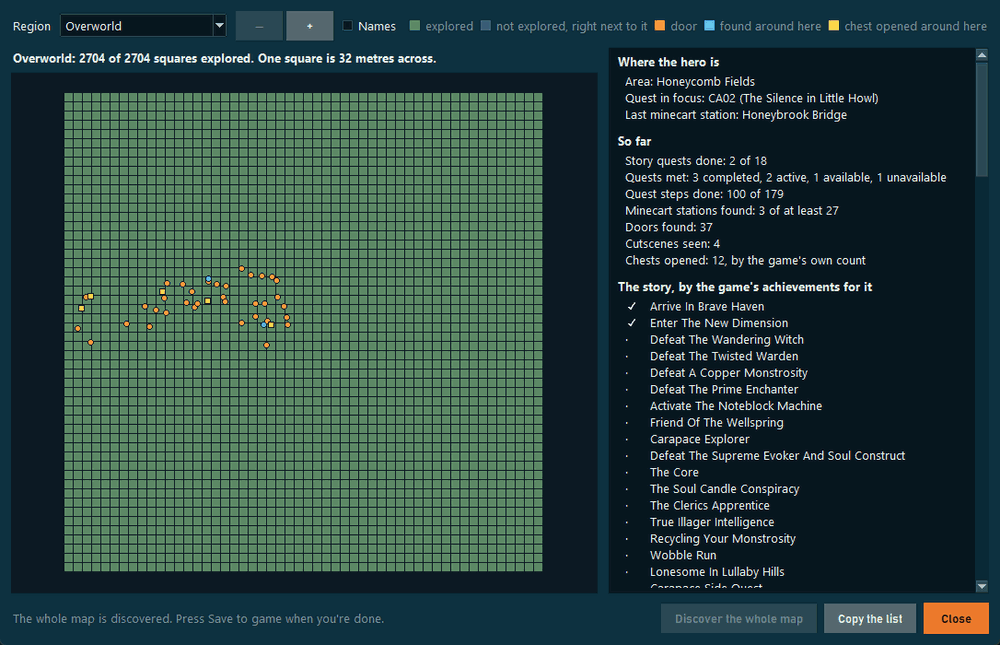
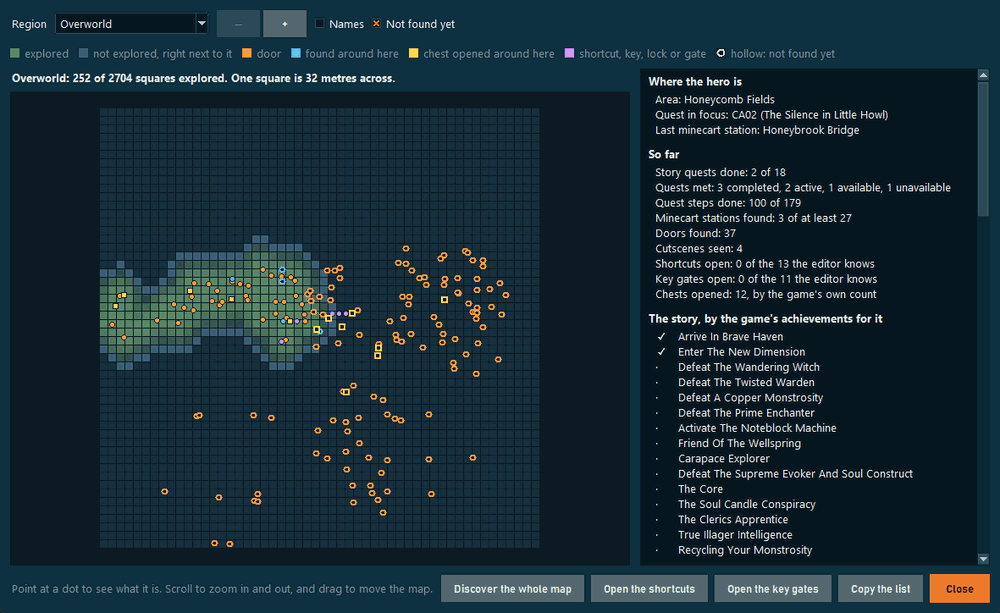
1.16.1's notes, changelog, README and pictures: the shortcuts, the key gates and the map that shows more
The notes list what goes out in 1.16.1 with two pictures (Story progress with
Finish all, and the World map with its three buttons and its hollow dots).
The changelog has the detail, the README's lines and its World map picture are
brought up to date, and the editor's own help says what the World map's three
buttons do.

diff --git a/dungeons2_editor/gui.py b/dungeons2_editor/gui.py
@@ -78,10 +78,12 @@ _SAFE_TEXT = (
     "part of one that can be sent on, and sends it if you choose to."
     "\n• World map… (in the same two places) draws the ground the hero on screen has explored, from its save, with every "
     "door it has found, and lists how far it has got: the story, quests, minecart stations, what it may have missed. "
-    "Your recordings add where stations, cutscenes and chests turned up. It can't show what the hero hasn't found: the "
-    "game writes a chest or a secret to a save only once you've been to it. Nothing is changed by looking. Discover the whole "
-    "map, in its window, lifts the fog from every map, and adds the maps of places the hero hasn't been to yet as other "
-    "players' saves hold them."
+    "Your recordings add where stations, cutscenes, chests, rocks and key gates turned up. Hollow dots are what the editor "
+    "knows from other players' saves and this hero hasn't found; untick Not found yet to hide them. A chest or a secret that "
+    "no recording has seen isn't on it. Nothing is changed by looking. Three buttons in its window change the hero: Discover "
+    "the whole map lifts the fog from every map, and adds the maps of places the hero hasn't been to yet as other players' "
+    "saves hold them; Open the shortcuts moves the rocks that block a way round; Open the key gates opens the gates a key "
+    "opens, with their locks and keys."
     "\n• Story progress… (in the same two places) lists the quests of the hero on screen with every step, and changes "
     "how far the hero has got: finish a quest, start one over, add one the hero hasn't met, pick the quest the game "
     "tracks, and say which minecart station the hero was last at. It writes a quest the way a save holds one, and nothing "

diff --git a/CHANGELOG.md b/CHANGELOG.md
@@ -34,22 +34,60 @@ The short notes for the newest versions are on the
   reaches the game only with **Save to game**. It finds nothing for you: doors, minecart stations and chests
   stay as they are. The World map window now shows the hero with the changes you've made, not the save as it
   was loaded, so what the button did is there to see before you save.
+- **Open the shortcuts, and open the key gates.** Two more buttons in the World map window. A save keeps a list of
+  the things in the world that stay as the hero left them, each with the state it was in and the state it's in:
+  a rock that moved out of the way once the hero came round to its far side, a bridge, a gate that a key opens,
+  the key's lock, and the key. The overworld's are named the same in every player's save (33 of the 45 in
+  players' lists are in more than one list), so the editor can write them. **Open the shortcuts** marks the
+  rocks and the bridge it knows as moved, 13 of them, and **Open the key gates** the 11 gates, each the way a
+  save holds an open one. Both ask first, and the window says how many of each are open. What's inside a dungeon
+  is left alone: a dungeon's things are named after where that dungeon was put.
+- **A gate's lock and key go with it.** Tried in the game with the gates alone, a gate stood open with its
+  keyhole and its key still there. So the lock is marked as having its key, and the key as taken, the way a save
+  holds them once a gate has been opened by playing, for each lock and key the editor can tell to be a gate's
+  own. A lock stands in the same piece of the map as its gate (nine of the ten the editor knows; the tenth was
+  caught by a play recording, changing in the same save as its gate), and a key was put there with its lock
+  (all seven). A lock or a key it can't tie to a gate is left alone: a lock marked as used beside a gate that
+  isn't open would leave that gate shut for good. A hero whose gates stand open with their keyholes still
+  there finds the button ready again, to mark what's left.
+- **The map shows more.** With **Not found yet** ticked, which it is to begin with, the World map also draws
+  what the editor knows from other players' saves and this hero hasn't found, as hollow dots: doors, exactly
+  where those saves have them (247 are known), minecart stations and cutscenes around where a play recording
+  saw them turn up, and the spots where recordings saw chests opened. A new colour is for a shortcut, a key, a
+  lock or a gate, and pointing at one says how it stands for the hero. The legend has a line of its own.
+- **Where a rock or a gate is.** A save names it and says how it stands, never where it is: only doors come
+  with a place. So one is on the map where a play recording saw it change, by the fog that lifted in that same
+  save. Six have a place so far. The editor's list keeps such places, **Share item IDs…** tells them with the
+  rest of what your recordings saw, and a rock or a gate the editor has opened for you never changes in a
+  recording, so it's a hero that opens them by playing that teaches the editor where they are.
+- **The play recorder says when a rock, a key, a lock or a gate changes,** out loud as it happens and in a part
+  of its summary, with the two states the save holds. It wrote them down before, among the quieter changes.
+- **What discovering the whole map costs.** The recorder tells where a chest was opened by the fog that lifts
+  as you explore. With the whole map discovered none lifts, and it can only tell the area. The question before
+  **Discover the whole map** now says so.
 - **Checked in the game** (1.1.2.0). A hero went in with all 44 quests the editor knows finished and the whole
   map discovered, 8,080 squares in 25 regions, nineteen of those regions added by the editor. The game loaded it,
-  changed nothing in its quests, kept every picture of the fog and showed the whole map.
+  changed nothing in its quests, kept every picture of the fog and showed the whole map. With the key gates
+  opened as well, they stood open, and once their locks and keys were marked too, nothing of them was left as
+  if unopened.
 - **Four quests come back.** With everything finished, four side quests were still marked on the game's map as
   new ones to take, two in Howling Woods and two in the Sift. They are the game's golem quests (an echo golem to
   rescue, in five steps; The Trembling Golem is one), which the game offers again once they're finished. Players
   say the same of golem quests they finished by playing, and other heroes' saves hold them as finished exactly
   as the editor writes them, so there is nothing in a save to change. The Story progress window says so on each
   of the four, and `list_quests` tells an AI assistant.
-- **For an AI assistant:** two new tools. `finish_quests` finishes a group of quests or the whole game, and
-  `discover_map` lifts the fog. `list_quests` says which finished quests are to be finished again, and
-  `change_quest` does that for one.
+- **For an AI assistant:** three new tools. `finish_quests` finishes a group of quests or the whole game,
+  `discover_map` lifts the fog, and `open_shortcuts_and_gates` opens the shortcuts, the key gates or both.
+  `list_quests` says which finished quests are to be finished again, and `change_quest` does that for one.
+- **The editor's own numbers aren't news.** Now that the editor gives a finished interact step its 1, a save it
+  has written, and a list made from one, hold numbers that only say what the editor did. They are no longer
+  taken as something a save has shown: **Share item IDs…** doesn't offer them, and the editor's list doesn't
+  take them in. Any other number, and any number with another kind of step, still counts.
 - **The Story progress window keeps its word.** The line that says what a button just did was wiped a moment
   after it was written. It stays now until you pick another quest.
-- **A little more of the world,** from the developer's newest recording: Rainy Plains as an area, and two spots
-  where chests were opened.
+- **A little more of the world,** from the developer's newest recordings: two areas (Rainy Plains and a second
+  meadow), two spots where chests were opened, how many chests were seen opened in four areas, and where six
+  rocks, keys, locks and gates were when they changed.
 
 ## 1.16.0
 

diff --git a/README.md b/README.md
@@ -28,8 +28,8 @@ lists of item IDs the editor makes for you, in [Issues](https://github.com/Ishia
   offers their enchantments.
 - **Presets and kits:** most money, most XP, best loot, every minecart station, the most powerful gear, or one of
   six complete builds, in one click.
-- **World map and play recorder:** see the ground your hero has explored and how far it has got, discover the
-  whole map in one click, and write down what the game saves while you play.
+- **World map and play recorder:** see the ground your hero has explored and what it hasn't found yet, discover
+  the whole map, open the shortcuts and the key gates, and write down what the game saves while you play.
 - **Story progress:** every quest with its steps. Finish a quest, a whole group or the whole game, start a quest
   over or add one, and start your hero at any minecart station it has found.
 - **Let an AI do it:** connect Claude or another AI assistant [over MCP](#let-an-ai-customise-your-hero-mcp) and
@@ -117,7 +117,7 @@ the exact setup for your PC, with Copy buttons. In short:
 
 The assistant gets tools to list your heroes, show a hero's stats, gear and inventory, search every item in the game,
 set stats, add, change, equip, copy and delete items, add enchantment books, give an item effects and an
-enchantment, set a talisman's level, apply presets, list and change quests, and discover the map. Its changes collect in a draft, like unsaved
+enchantment, set a talisman's level, apply presets, list and change quests, discover the map, and open shortcuts and key gates. Its changes collect in a draft, like unsaved
 changes in the editor window: nothing is written until it calls **save_changes**, which needs the game to be closed
 and backs up your saves first, exactly like **Save to game**. It plays by Simple mode's rules (offline heroes only, the
 game's caps, slots that open with your level, and best-guess item IDs only if it asks for them), and it never sees
@@ -138,9 +138,9 @@ your sign-in, account or device data.
   one step, and it gives none of what the game gives for a quest (items, XP). The game opens the quests that
   follow a finished one by itself, and it offers its four golem quests again once they're finished, so those
   stay marked on its map.
-- **The map.** A preset adds minecart stations and **Discover the whole map** lifts the fog; doors and chests
-  stay as the game saved them. The world map and the play recorder can't see a chest or a secret you haven't
-  touched.
+- **The map.** A preset adds minecart stations, **Discover the whole map** lifts the fog, and the shortcuts and
+  key gates the editor knows can be opened; doors and chests stay as the game saved them. A save says where a
+  door is and nothing else: a rock, a gate or a chest is on the map only where a play recording has placed it.
 - **Collections and achievements.** The editor leaves the game's own records alone: a book added here counts for
   neither, and it writes no achievement for a quest it finishes.
 - **Very high power or level may be undone by the game.** Stay close to what the game gives at your level.

diff --git a/dungeons2_editor/data/release-notes.md b/dungeons2_editor/data/release-notes.md
@@ -4,11 +4,14 @@
 
   ![Story progress: Finish all on a group's line, and Finish the whole game at the bottom](https://raw.githubusercontent.com/IshiakiZ/mcd2-save-editor/v1.16.1/dungeons2_editor/data/whats-new/1.16.1-finish-all.png)
 - **A finished quest gets its steps' numbers.** 1.16.0 left out some of the numbers a save holds with finished steps. Such a quest now reads **finish again**: finish it once more, or use Finish all.
-- **Discover the whole map.** A new button in **Menu → World → World map…** lifts the fog from every region the editor knows, the ones your hero hasn't been to as well. It finds no door or chest for you.
+- **Discover the whole map.** A new button in **Menu → World → World map…** lifts the fog from every region the editor knows, the ones your hero hasn't been to as well.
+- **Open the shortcuts and the key gates.** Two more buttons there: one moves the rocks that block a way round, the other opens the gates a key opens, with their locks and keys.
 
-  ![The world map with the whole map discovered](https://raw.githubusercontent.com/IshiakiZ/mcd2-save-editor/v1.16.1/dungeons2_editor/data/whats-new/1.16.1-map.png)
-- **Checked in the game.** It loaded a hero with every quest finished and the whole map discovered just as saved. Its four golem quests stay marked on its map: it offers them again once finished.
-- **An AI assistant can do both,** with two new tools: `finish_quests` and `discover_map`.
+  ![The world map: its three new buttons, and what the hero hasn't found as hollow dots](https://raw.githubusercontent.com/IshiakiZ/mcd2-save-editor/v1.16.1/dungeons2_editor/data/whats-new/1.16.1-map.png)
+- **The map shows more.** Doors, stations and chest spots your hero hasn't found are on it as hollow dots, and rocks, keys and gates where a play recording has placed them.
+- **The play recorder says when a rock, a key, a lock or a gate changes,** and lists them in its summary.
+- **Checked in the game.** It took a hero with every quest finished, the whole map discovered and the key gates opened just as saved. Its four golem quests come back on its map: it offers them again.
+- **An AI assistant can do these too,** with three new tools: `finish_quests`, `discover_map` and `open_shortcuts_and_gates`.
 
 ## What's new in 1.16.0
 
